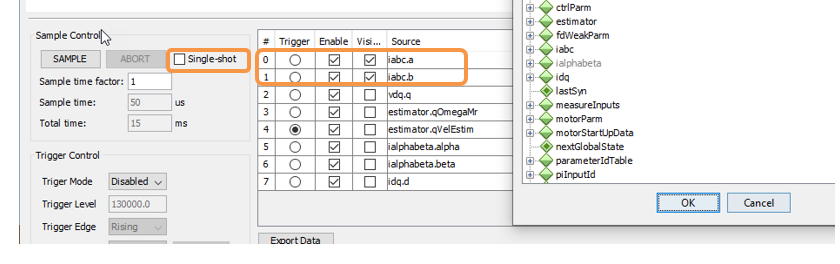
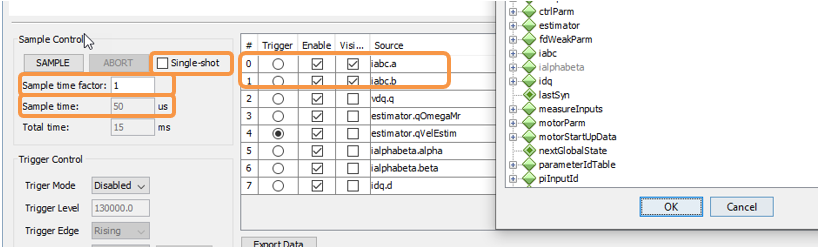
ReadMe MD File changed

Changed region(s): [[0.0, 0.0, 1.0, 1.0], [0.1523, 0.5278, 0.1827, 0.5556]]

diff --git a/README.md b/README.md
@@ -1,259 +1,236 @@
 ![image](images/microchip.jpg) 
+## Sensorless FOC using PLL Estimator for PMSM : MCLV-48V-300W and dsPIC33CK64MC105 Motor Control DIM
 
-## MCLV-48V-300W dsPIC33CK256MP508 AN1292
 
 ## 1. INTRODUCTION
-<p style='text-align: justify;'>
-This document describes the setup requirements for running the Sensorless FOC algorithm using
-PLL Estimator, which is referenced in AN1292 “Sensorless Field Oriented Control (FOC) for a Permanent Magnet Synchronous Motor (PMSM) Using a PLL Estimator and Field Weakening (FW)” using MCLV-48V-300W Inverter Board and dsPIC33CK256MP508 Motor Control Dual In-line Module (DIM).</p>
+This document describes the setup requirements for driving a Permanent Magnet Synchronous Motor (PMSM) using Sensorless Field Oriented Control (FOC) and PLL Estimator Algorithms on the hardware platform MCLV-48V-300W Inverter Board and dsPIC33CK64MC105 Motor Control Dual In-line Module (DIM).
 
+For details about PLL estimator refer to Microchip application note [AN1292](https://ww1.microchip.com/downloads/aemDocuments/documents/OTH/ApplicationNotes/ApplicationNotes/01292A.pdf) “Sensorless Field Oriented Control (FOC) for a Permanent Magnet Synchronous Motor (PMSM) Using a PLL Estimator and Field Weakening (FW)”
 
+</br>
 
-## 2.	SUGGESTED DEMONSTRATION REQUIREMENTS
+## 2. SUGGESTED DEMONSTRATION REQUIREMENTS
 
 ### 2.1 Motor Control Application Firmware Required for the Demonstration
-To clone or download this application from Github, go to the [main page of this repository](https://github.com/microchip-pic-avr-solutions/mclv-48v-300w-an1292-dspic33ck256mp508) and then click Clone button to clone this repository or download as zip file.
-> **_NOTE:_**
->In this document, hereinafter this firmware package is referred as firmware.
+
+To clone or download this application firmware on GitHub, 
+- Navigate to the [main page of this repository](https://github.com/microchip-pic-avr-solutions/mclv-48v-300w-an1292-dsPIC33CK64MC105) and 
+- On the tab **<> Code**, above the list of files in the right-hand corner, click Code, then from the menu, click **Download ZIP** or copy the repository URL to **clone.**
+> **Note**
+>In this document, hereinafter this firmware package is referred as **firmware.**
 ### 2.2 Software Tools Used for Testing the firmware
 
-- MPLAB® X IDE v5.50 
-- MPLAB® XC16 Compiler v1.70
-- MPLAB® X IDE Plugin: X2C-Scope v1.3.0 
-- DFP: dsPIC33CK-MP_DFP v1.6.176
-> **_NOTE:_**
+- MPLAB® X IDE **v6.00** 
+- DFP: **dsPIC33CK-MC_DFP v1.5.126**
+- MPLAB® XC16 Compiler **v2.00**
+- MPLAB® X IDE Plugin: **X2C-Scope v1.3.3** 
+> **Note:** </br>
 >The software used for testing the firmware prior to release is listed above. It is recommended to use the version listed above or later versions for building the firmware.
 ### 2.3 Hardware Tools Required for the Demonstration
 - MCLV-48V-300W Inverter Board (EV18H47A)
-- 	dsPIC33CK256MP508 Motor Control DIM (EV62P66A)
+- dsPIC33CK64MC105 Motor Control DIM (EV03J37A)
 - 24V Power Supply [(AC002013)](https://www.microchipdirect.com/dev-tools/AC002013)
 - 24V 3-Phase Brushless DC Motor [(AC300020)](https://www.microchip.com/en-us/development-tool/AC300020)
-  <br />
-> **_NOTE:_**
+
+> **Note:** </br>
 > All items listed under the section Hardware Tools Required for the Demonstration are available at [microchip DIRECT](https://www.microchipdirect.com/)
 
+</br>
+
 ## 3. HARDWARE SETUP
-<p style='text-align: justify;'>This section describes hardware setup required for the demonstration.</p>
+This section describes hardware setup required for the demonstration.
 
-1. <p style='text-align: justify;'> Motor currents are amplified by the amplifiers ( U10 and U11 )on the MCLV-48V-300W Inverter Board. It can also be amplified by the amplifiers internal to the dsPIC33CK256MP508 populated on the DIM. By default, the firmware and DIM are configured to sample and convert internal amplifier outputs ('internal Op Amp configuration'), measuring the motor currents needed for implementing FOC.</p>
+1. Motor currents are amplified on the MCLV-48V-300W Inverter Board; it can also be amplified by the amplifiers internal to the dsPIC33CK64MC105 on the DIM. The firmware and DIM are configured to sample and convert internal amplifier outputs (**'internal op-amp configuration'**) by default to measure the motor currents needed to implement FOC. 
+**Table-1** summarizes the resistors to be populated and removed to convert the DIM from **‘internal op-amp configuration’** to **‘external op-amp configuration’** or vice versa.
 
-     <p style='text-align: justify;'> The Table-1 summarizes the resistors to be populated and removed to convert the DIM from internal Op Amp configuration to external Op Amp configuration or vice versa.</p>
-
-    <p align="left" >
+     <p align="left" >
      <img  src="images/Tableopamp.png"></p>
 
+2. Insert the **dsPIC33CK64MC105 Motor Control DIM** into the DIM Interface **connector J8** on the MCLV-48V-300W Inverter Board. Make sure the DIM is placed correctly and oriented before going ahead.
+
+     <p align="left" >
+     <img  src="images/dimconnected.PNG"></p>
 
 
+3. Connect the 3-phase wires from the motor to PHC, PHB, and PHA of the **connector J4**(no specific order), provided on the MCLV-48V-300W Inverter Board.
 
-2. <p style='text-align: justify;'> Insert the dsPIC33CK256MP508 Motor Control DIM into the DIM Interface Connector J8 provided on the MCLV-48V-300W Inverter Board. Make sure the DIM is placed and oriented correctly.</p>
-
-    <p align="left">
-    <img  src="images/dimconnected.PNG"></p>
-
-
-3. <p style='text-align: justify;'> Connect the three phase wires from the motor to PHA, PHB, and PHC terminals of connector J4(there is no specific order) provided on the MCLV-48V-300W Inverter Board.</p>
-    <p align="left">
+     <p align="left" >
       <img  src="images/motorconnection.png"></p>
 
-4. <p style='text-align: justify;'>	Plug in the 24V power supply to connector J1 provided on the MCLV-48V-300W Inverter Board. Alternatively, the Inverter Board can also be powered through Connector J3.</p>
+4. Plug the 24V power supply to **connector J1** on the MCLV-48V-300W Inverter Board. Alternatively, the Inverter Board can also be powered through connector J3.
       <p align="left">
       <img  src="images/mclvpower.png"></p>
  
 
- 5.	<p style='text-align: justify;'>The board has an onboard programmer ‘PICkit™ On Board (PKoB4)’ , which can be used for programming or debugging the dsPIC33CK256MP508. To use an on-board programmer, connect a micro-USB cable between Host PC and Connector J16 provided on the MCLV-48V-300W Inverter Board.</p>
-
-
+ 5. The board has an onboard programmer **PICkit™ On Board (PKoBv4)** , which can be used for programming or debugging the microcontroller or dsPIC DSC on the DIM. To use the onboard programmer, connect a micro-USB cable between the Host PC and **connector J16** on the MCLV-48V-300W Inverter Board.
       <p align="left">
      <img  src="images/mclvpkob4.png"></p>
 
- 6.	<p style='text-align: justify;'>Alternatively, the device can also be programmed using the programmer/debugger (MPLAB® PICkit™ 4 In-Circuit Debugger - PG164140) by interfacing it through connector J9 of the MCLV-48V-300W Inverter Board as shown below. Ensure that the programmer is oriented correctly before proceeding.</p> 
-
+ 6. Alternatively, connect the Microchip programmer/debugger MPLAB® PICkit™ 4 In-Circuit Debugger between the Host PC used for programming the device and the **ICSP header J9** on the MCLV-48V-300W Inverter Board (as shown). Ensure that PICkit 4 is oriented correctly before proceeding.
       <p align="left">
        <img  src="images/mclvprogramming.PNG"></p>
  
-<br />
+ </br>
 
 ## 4. SOFTWARE SETUP AND RUN
 ### 4.1 Setup: MPLAB X IDE and MPLAB XC16 Compiler
+Install **MPLAB X IDE** and **MPLAB XC16 Compiler** versions that support the device **dsPIC33CK64MC105** and **PKOBv4.** The MPLAB X IDE, MPLAB XC16 Compiler, and X2C-Scope plug-in used for testing the firmware are mentioned in the [Motor Control Application Firmware Required for the Demonstration](#21-motor-control-application-firmware-required-for-the-demonstration) section. 
 
-Install MPLAB X IDE and MPLAB XC16 Compiler versions that support the device dsPIC33CK256MP508 and PKoBv4. The MPLAB X IDE, MPLAB XC16 Compiler, and X2C-Scope plug-in used for testing the firmware are mentioned in the [Motor Control Application Firmware Required for the Demonstration](#21-motor-control-application-firmware-required-for-the-demonstration) section. To get help on  
+To get help on  
 
 - MPLAB X IDE installation, refer [link](https://microchipdeveloper.com/mplabx:installation)
 - MPLAB XC16 Compiler installation steps, refer [link](https://microchipdeveloper.com/xc16:installation)
 
-<p style='text-align: justify;'>If MPLAB IDE v8 or earlier is already installed on your computer, then run the MPLAB driver switcher (It is installed when MPLAB®X IDE is installed) to switch from MPLAB IDE v8 drivers to MPLAB X IDE drivers. If you have Windows 7 or 8, you must run MPLAB driver switcher in ‘Administrator Mode’. To run the Device Driver Switcher GUI application as administrator, right click on the executable (or desktop icon) and select ‘Run as Administrator’. For additional details refer MPLAB X IDE help topic <i>“Before You Begin: Install the USB Device Drivers (For Hardware Tools): USB Driver Installation for Windows Operating Systems”</i>. </p>
+If MPLAB IDE v8 or earlier is already installed on your computer, then run the MPLAB driver switcher (Installed when MPLAB®X IDE is installed) to switch from MPLAB IDE v8 drivers to MPLAB X IDE drivers. If you have Windows 8 or 10, you must run the MPLAB driver switcher in **Administrator Mode**. To run the Device Driver Switcher GUI application as administrator, right-click on the executable (or desktop icon) and select **Run as Administrator**. For more details, refer to the MPLAB X IDE help topic **“Before You Begin: Install the USB Device Drivers (For Hardware Tools): USB Driver Installation for Windows Operating Systems.”**
 
-### 4.2  X2C-Scope
-<p style='text-align: justify;'>
-X2C-Scope is a MPLAB X IDE plugin that allows a developer to interact with an application while the application program is running. X2C-Scope enables you to read, write, and plot global variables (for motor control) in real time. It communicates with the target using the UART. To use X2C-Scope, the plugin must be installed:</p>
-
-- In MPLAB X IDE, select <i>Tools>Plugins</i> and click on the Available Plugins tab.
-- Select X2C-Scope plug-in by checking its check box, and then click Install.
-- Look for tool X2C-Scope under <i>Tools>Embedded.</i>
-
-<p align="left">
-  <img  src="images/x2cscopeconfiguration.png"></p>
- 
-<br />
+### 4.2 Setup: X2C-SCOPE
+X2C-Scope is an MPLAB X IDE plugin that allows developers to interact with an application while it runs. X2C-Scope enables you to read, write, and plot global variables (for motor con-trol) in real-time. It communicates with the target using the UART. To use X2C-Scope, the plugin must be installed. To set up and use X2C-Scope, refer to the instructions provided on the [web page](https://x2cscope.github.io/docs/MPLABX_Plugin.html).
 
 ## 5.  BASIC DEMONSTRATION
 ### 5.1 Firmware Description
+The firmware version needed for the demonstration is mentioned in the section [Motor Control Application Firmware Required for the Demonstration](#21-motor-control-application-firmware-required-for-the-demonstration) section. This firmware is implemented to work on Microchip’s 16-bit Digital signal controller (dsPIC® DSC) **dsPIC33CK64MC105**. For more information, see the **dsPIC33CK64MC105 Family datasheet (DS70005399)**.
 
-The firmware version needed for the demonstration is mentioned under the [Motor Control Application Firmware Required for the Demonstration](#21-motor-control-application-firmware-required-for-the-demonstration) section.
-<p style='text-align: justify;'>
-This firmware is implemented to work on Microchip’s 16-bit Digital signal controller (dsPIC® DSC) dsPIC33CK256MP508. 
-For more information, see the dsPIC33CK256MP508 Family datasheet (DS70005349).</p>
-<p style='text-align: justify;'>
-The Motor Control Demo application uses push button to start or stop the motor and potentiometer to vary speed of the motor.This Motor Control Demo Application configures and uses peripherals like PWM, ADC, UART etc.</p>
+The Motor Control Demo application uses a push button to start or stop the motor and a potentiometer to vary the speed of the motor. This Motor Control Demo Application config-ures and uses peripherals like PWM, ADC, UART, etc. For more details, refer to Microchip Application note **AN1292, “Sensorless Field Oriented Control (FOC) for a Permanent Magnet Synchronous Motor (PMSM) Using a PLL Estimator and Field Weakening (FW),”** available on the [Microchip website.]((https://www.microchip.com/).)
 
-<p style='text-align: justify;'>
-
-For more details refer Microchip Application note AN1292 'Sensorless Field Oriented Con-trol (FOC) for a Permanent Magnet Synchronous Motor (PMSM) Using a PLL Estimator and Field Weakening (FW)' available at [Microchip web site](https://www.microchip.com/). </p>
-
-> **_NOTE:_**
-> The project may not build correctly in Windows OS if Maximum path length of any source file in the project is more than 260 characters. In case absolute path is exceeding or nearing maximum length, do any (or both) of the following:
+> **Note:**</br>
+> The project may not build correctly in Windows OS if the Maximum path length of any source file in the project is more than 260 characters. In case the absolute path exceeds or nears the maximum length, do any (or both) of the following:
 > - Shorten the directory name containing the firmware used in this demonstration. If you renamed the directory, consider the new name while reading the instructions provided in the upcoming sections of the document.
-> - Place firmware in a location, such that absolute path length of each file included in the projects does not exceed the Maximum Path length specified. 
-Refer to MPLAB X IDE help topic <i>“Path, File, and Folder Name Restrictions”</i> for details.
+> - Place firmware in a location such that the total path length of each file included in the projects does not exceed the Maximum Path length specified. </br>
+> Refer to MPLAB X IDE help topic **“Path, File, and Folder Name Restrictions”** for details. 
 
 ### 5.2 Basic Demonstration
-<p style='text-align: justify;'>
-Follow below instructions step by step to setup and run the motor control demo application:</p>
+Follow the below instructions, step by step, to set up and run the motor control demo application:
 
-1. <p style='text-align: leftjustify;'> Start MPLAB X IDE and open<span style="font-family:Courier New; font-size:;"> (File>Open Project)</span> the project <span style="font-family:Courier New; font-size:;">pmsm.X</span> with device selection dsPIC33CK256MP508.</p>
+1. Start **MPLAB X IDE** and open the project **pmsm.X (File > Open Project)** with device selection **dsPIC33CK64MC105.**  
     <p align="left">
        <img  src="images/idedeviceselection.png"></p>
   
 
-2. <p style='text-align: leftjustify;'> Set the project <span style="font-family:Courier New; font-size:;">pmsm.X </span>as main project by right clicking on the project name and selecting 'Set as Main Project' as shown. The project <b>'pmsm'</b> will then appear in bold.</p>
+2. Set the project **pmsm.X** as the main project by right-clicking on the project name and selecting **Set as Main Project** as shown. The project **pmsm.X** will then appear in **bold.**
     <p align="left">
      <img  src="images/ideprojectsetup.png"></p>
  
 
 	
-3. <p style='text-align: leftjustify;'> Open <span style="font-family:Courier New; font-size:;">userparams.h </span>(under<span style="font-family:Courier New; font-size:;"> pmsm.X -> headerfiles)</span> in the project <span style="font-family:Courier New; font-size:;">pmsm.X</span> </p>
-     <p style='text-align: leftjustify;'>
-- Ensure that <span style="font-family:Courier New; font-size:;">TUNING, OPEN_LOOP_FUNCTIONING, and TORQUE_MODE </span>are not defined.
-      <p align="left"><img  src="images/configParam.png"></p>
-- When internal amplifiers are used for current amplification (referred as <b>‘internal Op Amp configuration’</b>) then<b> define</b> <span style="font-family:Courier New; font-size:;">INTERNAL_OPAMP_CONFIG</span>.
-        <p align="left"> <img  src="images/internalopampconfig.png"></p>
-       Otherwise if external amplifiers are used for current amplification (referred as <b>‘external Op Amp configuration’</b>) then <b>undefine </b>the macro <span style="font-family:Courier New; font-size:;">INTERNAL_OPAMP_CONFIG</span> in <span style="font-family:Courier New; font-size:;"> userparams.h.</span></p>
-        <p align="left">
-      <img  src="images/externalopampconfig.png"></p>
-      
-      
-   
-   
-> **_NOTE:_**
->The motor phase currents can be reconstructed from the DC Bus current by appropriately sampling it during the PWM switching period, called a single-shunt reconstruction algorithm. The firmware can be configured to demonstrate the single shunt reconstruction algorithm by defining the macro<span style="font-family:Courier New; font-size:;">‘SINGLE_SHUNT’</span> in the header file <span style="font-family:Courier New; font-size:;"> userparams.h </span><br>
->For additional information, refer to Microchip application note <b>AN1299, “Single-Shunt Three-Phase Current Reconstruction Algorithm for Sensorless FOC of a PMSM.”</b> <br>
->By default, the firmware uses phase currents measured across the phase shunt resistors on two of the half-bridges of the three-phase inverter (‘dual shunt configuration’) to implement FOC.
+3. Open <code>**userparms.h** </code> (**pmsm.X > Header Files**) in the project **pmsm.X.**  
+     - Ensure that the macros <code>**TUNING</code>, <code>OPEN_LOOP_FUNCTIONING</code>, <code>TORQUE_MODE</code>, and <code>SINGLE_SHUNT</code>** is not defined in the header file<code> **userparms.h.**</code>
+          <p align="left"><img  src="images/configParam.png"></p>
+
+     - When internal amplifiers are used for current amplification (referred to as **internal op-amp configuration**), **define** the macro <code>**INTERNAL_OPAMP_CONFIG**</code> in <code>**userparms.h.**</code>
+          <p align="left"> <img  src="images/internalopampconfig.png"></p>
+     - Otherwise, if external amplifiers are used for current amplification (referred to as **external op-amp configuration**), undefine the macro <code>**INTERNAL_OPAMP_CONFIG**</code> in the header file <code>**userparms.h.**</code>
+        <p align="left"><img  src="images/externalopampconfig.png"></p> 
+
+> **Note:**</br>
+>The motor phase currents can be reconstructed from the DC Bus current by appropriately sampling it during the PWM switching period, called a single-shunt reconstruction algorithm. The firmware can be configured to demonstrate **the single shunt reconstruction algorithm** by defining the macro <code>**SINGLE_SHUNT**</code> in the header file <code>**userparms.h**</code> 
+>For additional information, refer to Microchip application note **AN1299, “Single-Shunt Three-Phase Current Reconstruction Algorithm for Sensorless FOC of a PMSM.”**
+>By default, the firmware uses phase currents measured across the phase shunt resistors on two of the half-bridges of the three-phase inverter (**‘dual shunt configuration’**) to implement FOC.
 
 
-4. Right click on the project <i>pmsm.X</i> and select “Properties”  to open its Project Properties Dialog.Click the “Conf: [default]” category to reveal the general project configuration information. The development tools used for testing the firmware are listed in the section [2.2 Software Tools Used for Testing the firmware](#22-software-tools-used-for-testing-the-firmware).
-   <p style='text-align: justify;'>
-    In the <b><i>‘Conf: [default]’</i></b> category window: 
-    <p style='text-align: justify;'>
+4. Right-click on the project **pmsm.X** and select **Properties** to open its **Project Properties** Dialog. Click the **Conf:[default]** category to reveal the general project configuration information. The development tools used for testing the firmware are listed in section [2.2 Software Tools Used for Testing the firmware.](#22-software-tools-used-for-testing-the-firmware).
 
- - Select the specific Compiler Toolchain from the available list of compilers. Please ensure MPLAB® XC16 Compiler supports the device dsPIC33CK256MP508.In this case, “XC16(v1.70)” is selected.
-      <p style='text-align: justify;'>
- - Select the Hardware Tool to be used for programming and debugging. 
-       <p style='text-align: justify;'>
--	Select the specific Device Family Pack (DFP) from the available list of Packs. In this case, “dsPIC33CK-MP_DFP 1.6.176” is selected.     
- -   After selecting Hardware Tool and Compiler Toolchain, click button <b>Apply</b>
-        <p align="left">
-        <img  src="images/projectpropertiessettings.png"></p>
+     In the **Conf:[default]** category window: 
+     - Ensure the selected **Device** is **dsPIC33CK64MC105.**
+     - Select the **Connected Hardware Tool** to be used for programming and debugging. 
+     - Select the specific Device Family Pack (DFP) from the available list of **Packs.** In this case, **dsPIC33CK-MC_DFP 1.5.126** is selected. 
+     - Select the specific **Compiler Toolchain** from the available list of **XC16** compilers. 
+     In this case, **XC16(v2.00)** is selected.
+     - After selecting Hardware Tool and Compiler Toolchain, Device Pack, click the button **Apply**
 
-5. <p style='text-align: justify;'> Ensure that the checkbox <b>'Load symbols when programming or building for production (slows process)'</b> is checked, which is under the 'Loading' category of the Project Properties window.</p>        
+     Please ensure that the selected MPLAB® XC16 Compiler and Device Pack support the device configured in the firmware
+
+     <p align="left">
+     <img  src="images/projectpropertiessettings.png"></p>
+
+5. Ensure that the checkbox **Load symbols when programming or building for production (slows process)** is checked under the **Loading** category of the **Project Properties** window.       
         
       <p align="left">
       <img  src="images/loadvariables.png"></p>
 
-6. <p style='text-align: justify;'>	 To build the project (in this case pmsm.X) and program the device dsPIC33CK256MP508, click <b>'Make and Program Device Main project'</b> on the toolbar.</p>
+6. To build the project (in this case, **pmsm.X**) and program the device dsPIC33CK64MC105, click **Make and Program Device Main project** on the toolbar
     <p align="left">
     <img  src="images/deviceprogramming.png"></p>
   
-7. <p style='text-align: justify;'>	 	If the device is successfully programmed, <b>LD2 (‘LED1’)</b>  will be turned ON, indicating that the dsPIC® DSC is enabled. </p> 
+7. If the device is successfully programmed, **LD2 (LED1)** will be turned **ON**, indicating that the dsPIC® DSC is enabled.
     <p align="left">
      <img  src="images/led.png"></p>
 
 
-8. <p style='text-align: justify;'> 	Run or stop the motor by pressing the push button <b>SW1</b>. The motor should start spinning smoothly in one direction in the ‘Normal Speed Range’. Ensure that the motor is spinning smoothly without any vibration. The LED <b>LD3 (‘LED2’)</b> is turned ON to show the button is pressed to start the motor </p>
+8. Run or stop the motor by pressing the push button **SW1.** The motor should start spinning smoothly in one direction in the nominal speed range. Ensure that the motor is spinning smoothly without any vibration. The LED **LD3(LED2)** is turned **ON** to show the button is pressed to start the motor.
      <p align="left">
      <img  src="images/pushbuttons.png"></p>
  
 
-9.  <p style='text-align: justify;'> The motor speed can be varied using the potentiometer (labeled <b>'POT1'</b>).</p>
+9. The motor speed can be varied using the potentiometer **(POT1).**
     <p align="left">
     <img  src="images/potentiometer.png"></p>
-
  
-10.	<p style='text-align: justify;'>To enter the extended speed range (NOMINAL_SPEED_RPM to MAXIMUM_SPEED_RPM) press the push button <b>SW2</b>. Press the push button <b>SW2</b> again to revert the speed of the motor to its normal speed (END_SPEED_RPM to NOMINAL_SPEED_RPM) range. </p>
+10. Press the push button **SW2** to enter the extended speed range (<code>NOMINAL_SPEED_RPM</code> to <code>MAXIMUM_SPEED_RPM</code>).
+Press the push button **SW2** again to revert the speed of the motor to its nominal speed range (<code>END_SPEED_RPM</code> to <code>NOMINAL_SPEED_RPM</code>).
       <p align="left">
-     <img  src="images/stopButton.png"></p>
-  
+     <img  src="images/stopButton.png"></p> 
 
-11. <p style='text-align: justify;'>	Press the push button <b>SW1</b> to stop the motor.</p>
+11. Press the push button **SW1** to stop the motor.
 
 
->**_NOTE:_**
->The macro definitions END_SPEED_RPM, NOMINAL_SPEED_RPM, and MAXIMUM_SPEED_RPM are specified in userparms.h file included in the project pmsm.X. The definitions NOMINAL_SPEED_RPM, and MAXIMUM_SPEED_RPM are defined as per the specification provided by the Motor manufacturer. Exceeding manufacture specification may lead to damage of the motor or(and) the board. 
+>**Note:**</br>
+>The macros <code>END_SPEED_RPM</code>, <code>NOMINAL_SPEED_RPM</code>, and <code>MAXIMUM_SPEED_RPM</code> are specified in the header file <code>**userparms.h**</code> included in the project **pmsm.X.** The macros <code>NOMINAL_SPEED_RPM</code> and <code>MAXIMUM_SPEED_RPM</code> are defined as per the Motor manu-facturer’s specifications. Exceeding manufacture specifications may damage the motor or the board or both.
 
-## 5.3  Data visualization through X2C-Scope Plug-in of MPLABX
-<p style='text-align: justify;'>
- X2C-Scope is a third-party plug-in for MPLAB X, which helps in real-time diagnostics. The application firmware comes with the initialization needed to interface controller with the host PC to enable data visualization through X2C-Scope plug-in.</p>
+## 5.3  Data visualization through X2C-Scope Plug-in of MPLAB X
 
-1. Ensure X2C-Scope Plug-in is installed. For additional information on how to set up a plug-in refer [https://microchipdeveloper.com/mplabx:tools-plugins-available](https://microchipdeveloper.com/mplabx:tools-plugins-available)
+X2C-Scope is a third-party plug-in in MPLAB X, which helps in real-time diagnostics. The application firmware comes with the initialization needed to interface the controller with the host PC to enable data visualization through the X2C-Scope plug-in. Ensure the X2C-Scope plug-in is installed. For more information on how to set up a plug-in, refer to either the [Microchip Developer Help page](https://microchipdeveloper.com/mplabx:tools-plugins-available) or the [web page.](https://x2cscope.github.io/docs/MPLABX_Plugin.html)
  
-2.	To establish serial communication with the host PC, connect a micro-USB cable between the host PC and the MCLV-48V-300W Inverter Board (connector J16). This interface is also used for programming.
+1. To establish serial communication with the host PC, connect a micro-USB cable between the host PC and **connector J16** on the MCLV-48V-300W Inverter Board. This interface is also used for programming.
 
 
-3. Ensure application is configured and running as described under Section [Basic Demonstration](#5-basic-demonstration   ) by following steps 1 through 11.
+2. Ensure the application is configured and running as described under section [5.2 Basic Demonstration](#52-basic-demonstration) by following steps 1 through 11.
 
- 
-
-4. Open the X2C-Scope window by selecting <span style="font-family:Courier New; font-size:;">Tools>Embedded>X2CScope.</span></p>
+3. Open the **X2C-Scope** window by selecting **Tools>Embedded>X2CScope.**
       <p align="left">
        <img  src="images/x2cselection.png"></p>
  
 
-5. Open the X2C-Scope Configuration window and in <b>'Select project'</b> menu, select <b>pmsm</b> project as shown.
+4. **In the X2C-Scope Configuration** window, open the **Connection Setup** tab and click **Select Project.** This opens the drop-down menu **Select Project** with a list of opened projects. Select the specific project **pmsm** from the list of projects and click **OK.**
     <p align="left">
     <img  src="images/x2cprojectselection.png"></p>
 
-6.	Serial communication needs to be set up, as shown in the following figure. Ensure the communication baud rate is set to 115200 as configured in the application firmware. The COM port used depends on the system settings. The <span style="font-family:Courier New; font-size:;">refresh button</span> lists the available COM Ports. Select the COM Port as per the connection.
+5. To configure and establish the serial communication for **X2C-Scope**, open the **X2CScope Configuration** window, click on the **Connection Setup** tab and:
+     - Set **Baudrate** as **115200**, which is configured in the application firmware. 
+     - Click on the **Refresh** button to refresh and update the list of the available Serial COM ports connected to the Host PC. 
+     - Select the specific **Serial port** detected when interfaced with the MCLV-48V-300W Inverter Board. The **Serial port** depends on the system settings
 
     <p align="left">
      <img  src="images/x2cconnectionsetup.png"></p>
  
 
-
-7. Once the COM port is detected, click on <b>'Disconnected'</b> and turn to <b>'Connected'</b>, to establish a serial communication between Host PC and the board.
+6. Once the **Serial port** is detected, click on **Disconnected** and turn to **Connected**, to establish serial communication between the Host PC and the board.
      <p align="left">
     <img  src="images/x2cconnectionbutton.png"></p>
 
 
-8. Set the <b>'Project Setup'</b> as shown below and click <b>'Set Value'</b>. Set Scope sample time as interval at which <span style="font-family:Courier New; font-size:1;">X2CScopeUpdate()</span> is called. In this application it is every 50µs.
+7. Open the **Project Setup** tab in the **X2CScope Configuration** window and,
+     - Set **Scope Sampletime** as the interval at which <code>X2CScopeUpdate()</code> is called. In this application, it is every <code>50µs.</code> 
+     - Then, click **Set Values** to save the configuration.
+
       <p align="left">
       <img  src="images/x2cprojectsetup.png"></p>
 
 
-9. When the setup is established, click on open scope View (under sub window <b>'Data Views'</b>), this opens 'Scope Window'.
+8.	Click on **Open Scope View** (in the **Data Views** tab of the **X2CScope Configuration** Window); this opens **Scope Window.**
      <p align="left">
       <img  src="images/x2cdataview.png"></p>
     	     
-
-10. In this window, select the variables that needs to be monitored. To do this, click on the source against each channel, a window Select Variables opens upon the screen. From the available list, the required variable can be chosen. Ensure check boxes Enable & Visible are checked for the variables to be plotted.<br>
-To view data plots continuously, uncheck<span style="font-family:Courier New; font-size:1;"> Single-shot</span>. When <span style="font-family:Courier New; font-size:1;">Single-shot</span> is checked it captures the data once and stops. The Sample time factor value multiplied with Sample time determines the time difference between any two consecutive data points on the plot.
+9. In the **Scope Window**, select the variables that must be watched. To do this, click on the **Source** against each channel, and a window **Select Variables** opens on the screen. From the available list, the required variable can be chosen. Ensure checkboxes **Enable** and **Visible** are checked for the variables to be plotted.
+To view data plots continuously, uncheck **Single-shot.** When **Single-shot** is checked, it captures the data once and stops. The **Sample time factor** value multiplied by **Sample time** decides the time difference between any two consecutive data points on the plot.
     <p align="left">
     <img  src="images/x2cdatapointselection.png"></p>
 
-11.	Click on <b>'SAMPLE'</b>, then X2C-Scope window shows variables in real time, which is updated automatically.
+10.	Click on **SAMPLE**, then the X2C-Scope window plots variables in real-time, which updates automatically.
      <p align="left">
      <img  src="images/x2csample.png"></p>
  
 
-12.	Click on <b>'ABORT'</b> to stop.
+11.	Click on **ABORT** to stop.
      <p align="left">
      <img  src="images/x2cabort.png"></p>
  
@@ -261,12 +238,14 @@ To view data plots continuously, uncheck<span style="font-family:Courier New; fo
 For additional information, refer following documents or links.
 1. AN1292 Application Note “[Sensorless Field Oriented Control (FOC) for a Permanent Magnet Synchronous Motor (PMSM) Using a PLL Estimator and Field Weakening (FW)](https://ww1.microchip.com/downloads/aemDocuments/documents/OTH/ApplicationNotes/ApplicationNotes/01292A.pdf)”
 2. AN1299 Application Note “[Single-Shunt Three-Phase Current Reconstruction Algorithm for Sensorless FOC of a PMSM](http://ww1.microchip.com/downloads/en/appnotes/01299a.pdf)”
-3. MCLV-48V-300W Inverter Board User’s Guide 
-4. dsPIC33CK256MP508 Family datasheet [(DS70005349)](https://ww1.microchip.com/downloads/en/DeviceDoc/dsPIC33CK256MP508-Family-Data-Sheet-DS70005349H.pdf)
-5. [Family Reference manuals (FRM) of dsPIC33CK256MP508 family](https://www.microchip.com/en-us/product/dsPIC33CK256MP508#document-table)
-6. MPLAB® X IDE User’s Guide (DS50002027) or MPLAB® X IDE help
-7. [MPLAB® X IDE installation](http://microchipdeveloper.com/mplabx:installation)
-8. [MPLAB® XC16 Compiler installation](http://microchipdeveloper.com/xc16:installation)
+3. MCLV-48V-300W Inverter Board User’s Guide (DS50003297) 
+4. dsPIC33CK64MC105 Motor Control Dual In-Line Module (DIM) Information Sheet (DS50003344)
+5. dsPIC33CK64MC105 Family datasheet [(DS70005399)](https://ww1.microchip.com/downloads/en/DeviceDoc/dsPIC33CK64MC105-Family-Data-Sheet-DS70005399C.pdf)
+6. [Family Reference Manuals (FRM) of dsPIC33CK64MC105 family](https://www.microchip.com/en-us/product/dsPIC33CK64MC105#document-table)
+7. MPLAB® X IDE User’s Guide (DS50002027) or MPLAB® X IDE help
+8. [MPLAB® X IDE installation](http://microchipdeveloper.com/mplabx:installation)
+9. [MPLAB® XC16 Compiler installation](http://microchipdeveloper.com/xc16:installation)
+10. [Installation and setup of X2Cscope plugin for MPLAB X](https://x2cscope.github.io/docs/MPLABX_Plugin.html)
 
 
 
